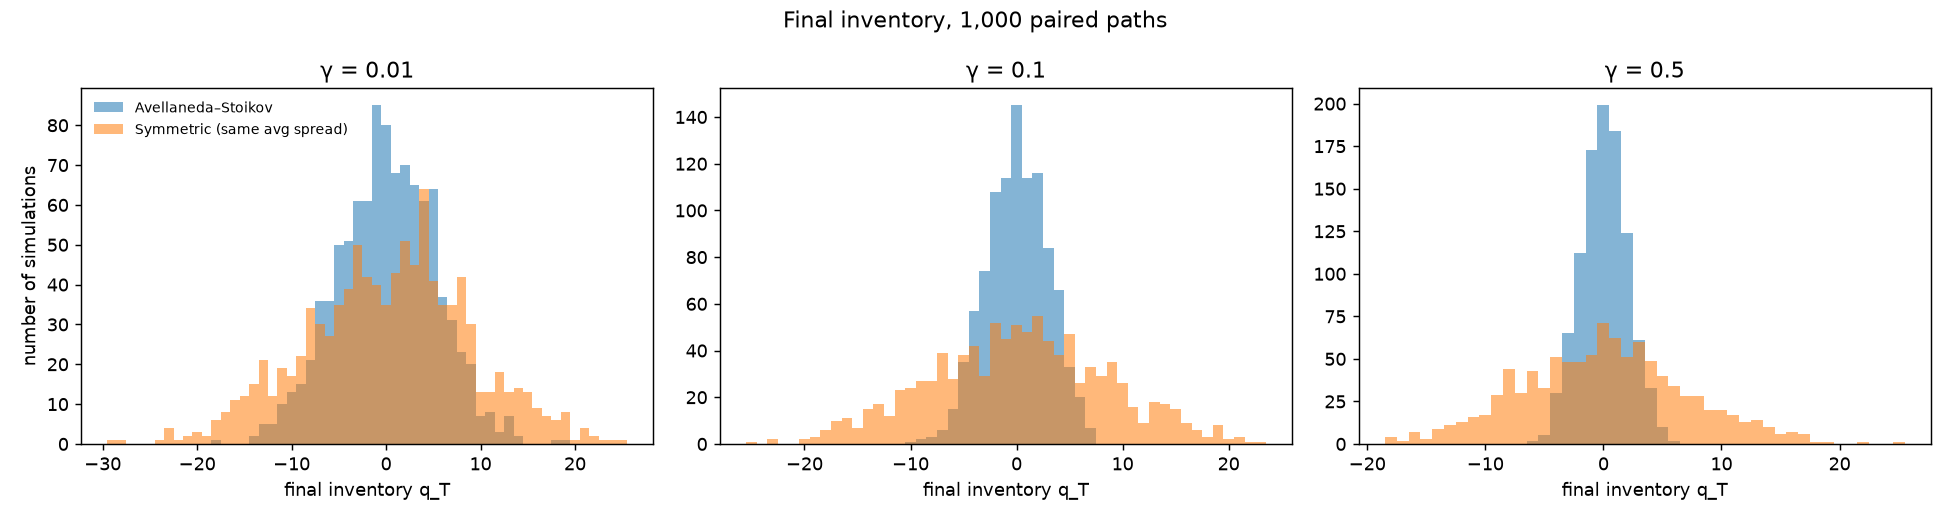
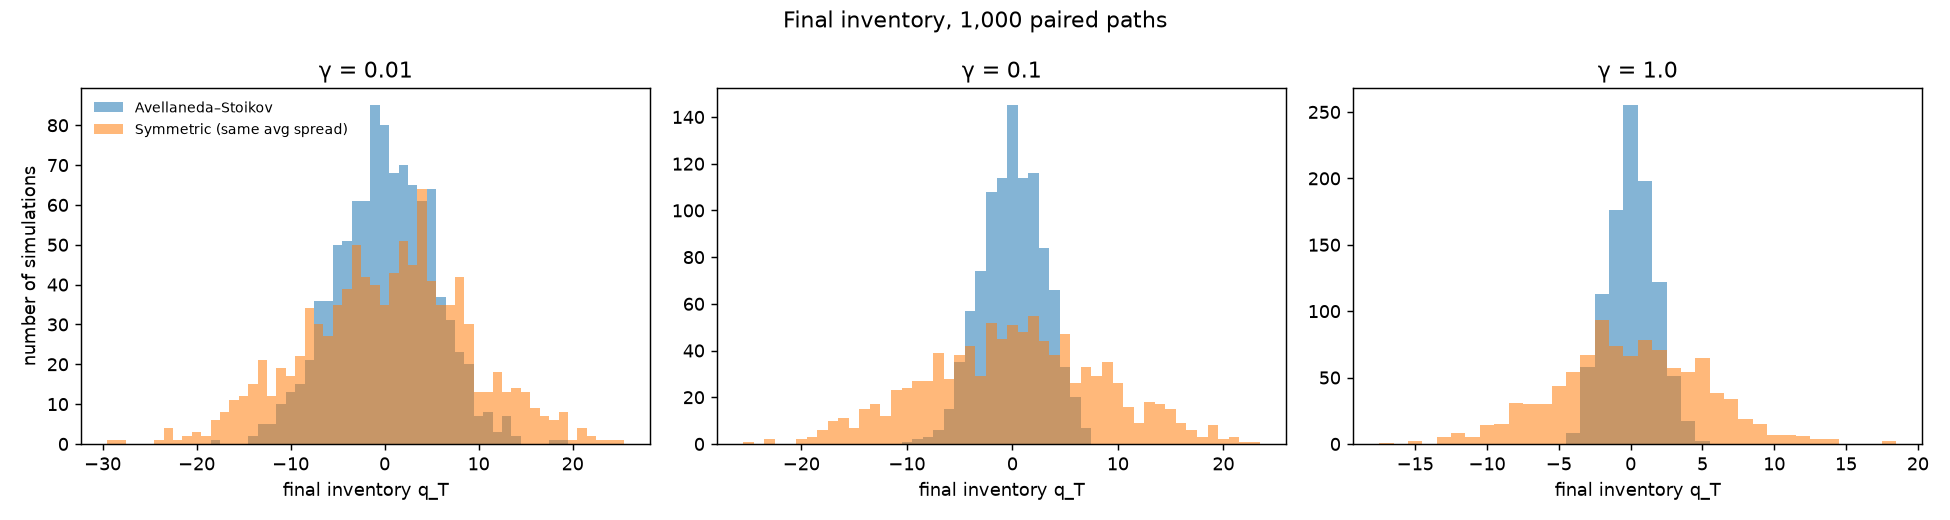
Fix stage 1 benchmark: gamma = 1 replaces 0.5, paper figures checked by owner; rerun replication

diff --git a/scripts/run_replication.py b/scripts/run_replication.py
@@ -1,12 +1,13 @@
 """Replicate Avellaneda & Stoikov (2008), section 4 (numerical simulations).
 
 Setup: S0 = 100, T = 1, sigma = 2, dt = 0.005, A = 140, k = 1.5,
-gamma in {0.01, 0.1, 0.5}, 1,000 paths each (seeds 0..999, shared by both
+gamma in {0.01, 0.1, 1}, 1,000 paths each (seeds 0..999, shared by both
 strategies so the comparison is paired). No fees, no tick size (as in the paper).
 
 Benchmark: a symmetric strategy whose fixed spread equals the A-S spread
-averaged over the run. A second benchmark uses the spread the paper's table
-reports, (2/gamma) ln(1 + gamma/k), to check the benchmark definition.
+averaged over the run. A second benchmark uses only the liquidity term
+(2/gamma) ln(1 + gamma/k), to show how much the benchmark definition matters.
+Fills use the paper's rule P(fill in dt) = lambda * dt (stage 1 only).
 
 Writes to results/stage1/: replication.csv, replication.md, sample_path.png,
 pnl_distributions.png, inventory_distributions.png.
@@ -30,18 +31,21 @@ from mms.strategies.naive import NaiveSymmetric
 
 OUT = Path(__file__).resolve().parents[1] / "results" / "stage1"
 PARAMS = MarketParams(s0=100.0, sigma=2.0, T=1.0, dt=0.005, A=140.0, k=1.5)
-GAMMAS = [0.01, 0.1, 0.5]
+GAMMAS = [0.01, 0.1, 1.0]
 SEEDS = range(1000)
 N_BOOT = 2000
 
-# Paper, Table 1-3 (spread, mean profit, std profit, mean final q, std final q)
+# Avellaneda & Stoikov (2008), Quantitative Finance 8(3), section 4, tables for
+# gamma = 0.1, 0.01 and 1, checked against the paper by the owner (2026-11-26).
+# Values: (average spread, mean profit, std profit, std final q).
+# The paper reports one average spread per gamma, used by both strategies.
 PAPER = {
-    (0.01, "avellaneda_stoikov"): (1.33, 66.78, 8.76, -0.02, 4.70),
-    (0.01, "symmetric"): (1.33, 67.36, 13.40, -0.31, 8.65),
-    (0.1, "avellaneda_stoikov"): (1.29, 62.94, 5.89, 0.10, 2.80),
-    (0.1, "symmetric"): (1.29, 67.21, 13.43, -0.018, 8.66),
-    (0.5, "avellaneda_stoikov"): (1.15, 33.92, 4.72, -0.02, 1.88),
-    (0.5, "symmetric"): (1.15, 66.20, 14.53, 0.25, 9.06),
+    (0.1, "avellaneda_stoikov"): (1.49, 65.0, 6.6, 2.9),
+    (0.1, "symmetric"): (1.49, 68.4, 12.7, 8.4),
+    (0.01, "avellaneda_stoikov"): (1.35, 68.6, 8.7, 5.1),
+    (0.01, "symmetric"): (1.35, 68.8, 12.8, 8.7),
+    (1.0, "avellaneda_stoikov"): (3.02, 31.4, 5.0, 1.7),
+    (1.0, "symmetric"): (3.02, 44.0, 11.0, 5.1),
 }
 
 log = logging.getLogger("replication")
@@ -60,23 +64,23 @@ def main() -> None:
         a_s = AvellanedaStoikov(gamma=g, sigma=PARAMS.sigma, k=PARAMS.k, T=PARAMS.T)
         r_as = simulate(a_s, PARAMS, SEEDS, record_paths=(g == 0.1))
         avg_spread = float(r_as.mean_quoted_spread.mean())
-        paper_spread = (2 / g) * np.log1p(g / PARAMS.k)
+        liq_spread = (2 / g) * np.log1p(g / PARAMS.k)
         r_sym = simulate(NaiveSymmetric(avg_spread), PARAMS, SEEDS)
-        r_sym_paper = simulate(NaiveSymmetric(paper_spread, name="symmetric_paper_spread"), PARAMS, SEEDS)
+        r_sym_liq = simulate(NaiveSymmetric(liq_spread, name="symmetric_liquidity_spread"), PARAMS, SEEDS)
         results[g] = {"avellaneda_stoikov": r_as, "symmetric": r_sym}
 
         for name, res in [("avellaneda_stoikov", r_as), ("symmetric", r_sym),
-                          ("symmetric_paper_spread", r_sym_paper)]:
+                          ("symmetric_liquidity_spread", r_sym_liq)]:
             s = summarise(res, N_BOOT, seed=1).set_index("metric")
             row = {"gamma": g, "strategy": name, "n_paths": len(res.pnl), "n_clipped": res.n_clipped}
             for m in s.index:
                 row[m] = s.loc[m, "estimate"]
                 row[m + "_lo"] = s.loc[m, "ci_low"]
                 row[m + "_hi"] = s.loc[m, "ci_high"]
-            paper = PAPER.get((g, name if name != "symmetric_paper_spread" else "symmetric"))
+            paper = PAPER.get((g, name))
             if paper:
-                row.update(paper_spread_reported=paper[0], paper_mean_pnl=paper[1], paper_std_pnl=paper[2],
-                           paper_mean_q=paper[3], paper_std_q=paper[4])
+                row.update(paper_avg_spread=paper[0], paper_mean_pnl=paper[1], paper_std_pnl=paper[2],
+                           paper_std_q=paper[3])
             rows.append(row)
             md_rows.append(
                 f"| {g} | {name} | {row['mean_quoted_spread']:.3f} | "
@@ -87,7 +91,7 @@ def main() -> None:
                 f"{fmt(row['std_final_q'], row['std_final_q_lo'], row['std_final_q_hi'])} | "
                 f"{row['mean_max_abs_q']:.2f} | {row['fill_rate']:.3f} | {row['avg_spread_captured']:.3f} | "
                 f"{res.n_clipped} | "
-                + (f"{paper[1]} / {paper[2]} / {paper[4]}" if paper else "—") + " |"
+                + (f"{paper[0]} / {paper[1]} / {paper[2]} / {paper[3]}" if paper else "—") + " |"
             )
 
         # Paired differences A-S minus symmetric (same seeds)
@@ -103,10 +107,10 @@ def main() -> None:
         "# Stage 1: Avellaneda–Stoikov replication\n\n"
         f"S0=100, T=1, σ=2, dt=0.005, A=140, k=1.5; {len(SEEDS)} paired paths per γ (seeds 0–999); "
         "no fees, no tick. Cells show estimate [95% bootstrap CI]. "
-        "`symmetric` uses the mean A–S quoted spread; `symmetric_paper_spread` uses (2/γ)ln(1+γ/k), "
-        "the spread printed in the paper's tables. `clipped` = quote-steps with λ·dt > 1.\n\n"
+        "`symmetric` uses the mean A–S quoted spread; `symmetric_liquidity_spread` uses only the liquidity term (2/γ)ln(1+γ/k). "
+        "Paper figures: Avellaneda & Stoikov (2008), section 4 tables. `clipped` = quote-steps with λ·dt > 1.\n\n"
         "| γ | strategy | avg spread | mean P&L | std P&L | mean/std | mean q_T | std q_T | "
-        "mean max|q| | fill rate | spread captured | clipped | paper mean / std P&L / std q |\n"
+        "mean max|q| | fill rate | spread captured | clipped | paper avg spread / mean / std P&L / std q |\n"
         "|---|---|---|---|---|---|---|---|---|---|---|---|---|\n"
     )
     (OUT / "replication.md").write_text(header + "\n".join(md_rows) + "\n", encoding="utf-8")

diff --git a/DECISIONS.md b/DECISIONS.md
@@ -10,18 +10,19 @@ Format: date — decision — one-line reason.
 - 2026-11-26 — Stage 1 replication uses seeds 0–999. — Simple and documented; later stages will use separate, non-overlapping ranges.
 - 2026-11-26 — Price shocks are Gaussian (exact ABM step), not the paper's ±σ√dt binomial steps. — Same mean and variance per step; Gaussian is the textbook ABM and exact for any dt.
 - 2026-11-26 — Fills: at most one unit per side per step, Bernoulli with p = A·exp(−kδ)·dt, δ measured from the mid at quote time; `check_dt` raises if A·dt ≥ 1. — Follows the paper's discretisation; A·dt = 0.7 for the paper setup.
-- 2026-11-26 — When an A–S quote is through the mid (δ < 0) and λ·dt > 1, the probability is clipped to 1 and the number of clipped quote-steps is counted and reported in the results table (33 at γ=0.1, 5,168 at γ=0.5 out of 400,000). — A crossing quote fills for certain; counting it keeps this visible instead of silent.
+- 2026-11-26 — When an A–S quote is through the mid (δ < 0) and λ·dt > 1, the probability is clipped to 1 and the number of clipped quote-steps is counted and reported in the results table (33 at γ=0.1, 10,135 at γ=1 out of 400,000). — A crossing quote fills for certain; counting it keeps this visible instead of silent.
 - 2026-11-26 — Tick rounding: bid rounded down, ask rounded up. — Never quote tighter than the model asks for, and keeps bid < ask.
 - 2026-11-26 — Fee: maker fee charged on notional, cash −= bid·(1+f) on a buy, += ask·(1−f) on a sell. Replication uses f = 0 and no tick (the paper has neither). — Matches how exchanges charge maker fees; costs come in for real data in stage 2.
 - 2026-11-26 — Final P&L = X_T + q_T·S_T (inventory marked at the final mid, no liquidation cost). — The paper's convention; a liquidation penalty can be added in stage 2.
 - 2026-11-26 — Fill rate = fills / (2 × steps), i.e. the share of quote opportunities (per side per step) that filled. Spread captured = mean distance from the mid per fill. — Clear and comparable across strategies.
 - 2026-11-26 — Bootstrap: percentile method, 2,000 resamples; paired differences resample paths jointly. — No normality assumption; the pairing removes shared price noise.
-- 2026-11-26 — Symmetric benchmark spread = mean A–S quoted spread over the run (1.349 / 1.492 / 2.156 for γ = 0.01 / 0.1 / 0.5). A second benchmark uses (2/γ)ln(1+γ/k) (1.329 / 1.291 / 1.151). — The paper's tables print the second number as "spread", which omits the γσ²(T−t) term; reporting both shows the definition barely matters for the symmetric P&L (~68 either way).
-- 2026-11-26 — Paper sanity targets in scripts/run_replication.py were transcribed by Claude from Avellaneda & Stoikov (2008), Tables 1–3, not copied from the PDF in this session. — Owner should check them against the paper.
+- 2026-11-26 — Symmetric benchmark spread = mean A–S quoted spread over the run (1.349 / 1.492 / 3.032 for γ = 0.01 / 0.1 / 1; paper 1.35 / 1.49 / 3.02). A second benchmark uses only the liquidity term (2/γ)ln(1+γ/k) (1.329 / 1.291 / 1.022). — Matches the paper's "average spread" definition; the second shows the definition matters at γ = 1 (symmetric P&L 43.4 vs 66.7).
+- 2026-11-26 — Paper sanity targets in scripts/run_replication.py were first typed from memory and were wrong (they included a γ = 0.5 row). — Superseded in stage 2, see below.
 
-### Replication vs paper (stage 1)
-- γ = 0.01 and 0.1 match the expected pattern and are close to the paper: e.g. γ = 0.1 A–S 64.9 ± 6.9 (paper 62.9 ± 5.9), symmetric 68.3 ± 13.3 (paper 67.2 ± 13.4); std of final inventory 2.9 vs 8.4 (paper 2.8 vs 8.7).
-- γ = 0.5: A–S mean P&L 48.5 vs the paper's 33.9 (std 6.3 vs 4.7; inventory std 2.0 vs 1.9, which matches). Investigated without tuning (scratch run, 1,000 seeds): exact Poisson probability 1−exp(−λdt) → 42.8; never quoting through the mid → 50.5; spread = liquidity term only (what the paper's table prints) → 23.8. None reproduces 33.9 exactly; the paper does not fully specify its discretisation, so the main result keeps the CLAUDE.md model. The qualitative finding (A–S lower mean, much lower P&L and inventory std) holds at every γ.
+### Replication vs paper (stage 1, corrected at the start of stage 2)
+- 2026-11-26 — The owner checked the paper: it reports γ = 0.1, 0.01 and 1, not 0.5. The γ = 0.5 "paper" row (33.9 / 4.7 / 1.9) did not exist; it was a memory error, so the stage 1 investigation of the "γ = 0.5 gap" is void and has been removed. Replication now uses γ ∈ {0.01, 0.1, 1} and the owner's figures. — Compare against what the paper actually reports.
+- 2026-11-26 — Replication keeps the paper's λ·dt fill rule (A·dt = 0.7; quotes through the mid clipped to probability 1, counted: 33 quote-steps at γ = 0.1, 10,135 at γ = 1 out of 400,000). — It is what the paper uses; stage 2 switches to the exact 1 − exp(−λ·dt).
+- Result (1,000 paired paths; ours vs paper, mean / std P&L / std q): γ = 0.1 A–S 64.9 / 6.9 / 2.9 vs 65.0 / 6.6 / 2.9, symmetric 68.3 / 13.3 / 8.4 vs 68.4 / 12.7 / 8.4; γ = 0.01 A–S 68.6 / 9.0 / 5.2 vs 68.6 / 8.7 / 5.1, symmetric 68.7 / 13.6 / 8.7 vs 68.8 / 12.8 / 8.7; γ = 1 A–S 31.4 / 5.0 / 1.7 vs 31.4 / 5.0 / 1.7, symmetric 43.4 / 11.3 / 5.2 vs 44.0 / 11.0 / 5.1 (avg spread 3.03 vs 3.02). Every figure is within about one bootstrap CI width of the paper; γ = 1 matches to the first decimal for A–S.
 - Noted for stage 2: at γ = 0.1 the λ·dt vs 1−exp(−λdt) choice moves A–S mean P&L by ~8 (64.9 → 57.2) because A·dt = 0.7 is not small. With real data, dt must be chosen so that A·dt is well below 1 (e.g. < 0.1).
 
 ### Binance data check (step 3)

diff --git a/results/stage1/replication.md b/results/stage1/replication.md
@@ -1,18 +1,18 @@
 # Stage 1: Avellaneda–Stoikov replication
 
-S0=100, T=1, σ=2, dt=0.005, A=140, k=1.5; 1000 paired paths per γ (seeds 0–999); no fees, no tick. Cells show estimate [95% bootstrap CI]. `symmetric` uses the mean A–S quoted spread; `symmetric_paper_spread` uses (2/γ)ln(1+γ/k), the spread printed in the paper's tables. `clipped` = quote-steps with λ·dt > 1.
+S0=100, T=1, σ=2, dt=0.005, A=140, k=1.5; 1000 paired paths per γ (seeds 0–999); no fees, no tick. Cells show estimate [95% bootstrap CI]. `symmetric` uses the mean A–S quoted spread; `symmetric_liquidity_spread` uses only the liquidity term (2/γ)ln(1+γ/k). Paper figures: Avellaneda & Stoikov (2008), section 4 tables. `clipped` = quote-steps with λ·dt > 1.
 
-| γ | strategy | avg spread | mean P&L | std P&L | mean/std | mean q_T | std q_T | mean max|q| | fill rate | spread captured | clipped | paper mean / std P&L / std q |
+| γ | strategy | avg spread | mean P&L | std P&L | mean/std | mean q_T | std q_T | mean max|q| | fill rate | spread captured | clipped | paper avg spread / mean / std P&L / std q |
 |---|---|---|---|---|---|---|---|---|---|---|---|---|
-| 0.01 | avellaneda_stoikov | 1.349 | 68.61 [68.04, 69.18] | 9.03 [8.64, 9.46] | 7.60 [7.24, 7.96] | 0.09 [-0.23, 0.40] | 5.21 [4.98, 5.43] | 7.12 | 0.255 | 0.669 | 0 | 66.78 / 8.76 / 4.7 |
-| 0.01 | symmetric | 1.349 | 68.73 [67.87, 69.58] | 13.62 [12.73, 14.61] | 5.05 [4.69, 5.42] | 0.21 [-0.33, 0.75] | 8.74 [8.35, 9.11] | 10.41 | 0.254 | 0.675 | 0 | 67.36 / 13.4 / 8.65 |
-| 0.01 | symmetric_paper_spread | 1.329 | 68.77 [67.91, 69.63] | 13.58 [12.74, 14.48] | 5.06 [4.73, 5.42] | 0.23 [-0.29, 0.77] | 8.80 [8.42, 9.17] | 10.50 | 0.258 | 0.664 | 0 | 67.36 / 13.4 / 8.65 |
+| 0.01 | avellaneda_stoikov | 1.349 | 68.61 [68.04, 69.18] | 9.03 [8.64, 9.46] | 7.60 [7.24, 7.96] | 0.09 [-0.23, 0.40] | 5.21 [4.98, 5.43] | 7.12 | 0.255 | 0.669 | 0 | 1.35 / 68.6 / 8.7 / 5.1 |
+| 0.01 | symmetric | 1.349 | 68.73 [67.87, 69.58] | 13.62 [12.73, 14.61] | 5.05 [4.69, 5.42] | 0.21 [-0.33, 0.75] | 8.74 [8.35, 9.11] | 10.41 | 0.254 | 0.675 | 0 | 1.35 / 68.8 / 12.8 / 8.7 |
+| 0.01 | symmetric_liquidity_spread | 1.329 | 68.77 [67.91, 69.63] | 13.58 [12.74, 14.48] | 5.06 [4.73, 5.42] | 0.23 [-0.29, 0.77] | 8.80 [8.42, 9.17] | 10.50 | 0.258 | 0.664 | 0 | — |
 | 0.01 | **A–S − symmetric (paired)** | | -0.12 [-0.63, 0.40] | -4.59 [-5.35, -3.88] | | | | | | | | |
-| 0.1 | avellaneda_stoikov | 1.492 | 64.94 [64.51, 65.38] | 6.91 [6.59, 7.24] | 9.40 [8.96, 9.86] | 0.06 [-0.12, 0.23] | 2.93 [2.81, 3.04] | 3.97 | 0.242 | 0.669 | 33 | 62.94 / 5.89 / 2.8 |
-| 0.1 | symmetric | 1.492 | 68.31 [67.43, 69.16] | 13.33 [12.50, 14.18] | 5.13 [4.80, 5.49] | 0.16 [-0.35, 0.70] | 8.42 [8.07, 8.75] | 10.07 | 0.228 | 0.746 | 0 | 67.21 / 13.43 / 8.66 |
-| 0.1 | symmetric_paper_spread | 1.291 | 68.76 [67.88, 69.63] | 13.68 [12.80, 14.63] | 5.03 [4.69, 5.40] | 0.19 [-0.33, 0.72] | 8.89 [8.49, 9.27] | 10.58 | 0.266 | 0.645 | 0 | 67.21 / 13.43 / 8.66 |
+| 0.1 | avellaneda_stoikov | 1.492 | 64.94 [64.51, 65.38] | 6.91 [6.59, 7.24] | 9.40 [8.96, 9.86] | 0.06 [-0.12, 0.23] | 2.93 [2.81, 3.04] | 3.97 | 0.242 | 0.669 | 33 | 1.49 / 65.0 / 6.6 / 2.9 |
+| 0.1 | symmetric | 1.492 | 68.31 [67.43, 69.16] | 13.33 [12.50, 14.18] | 5.13 [4.80, 5.49] | 0.16 [-0.35, 0.70] | 8.42 [8.07, 8.75] | 10.07 | 0.228 | 0.746 | 0 | 1.49 / 68.4 / 12.7 / 8.4 |
+| 0.1 | symmetric_liquidity_spread | 1.291 | 68.76 [67.88, 69.63] | 13.68 [12.80, 14.63] | 5.03 [4.69, 5.40] | 0.19 [-0.33, 0.72] | 8.89 [8.49, 9.27] | 10.58 | 0.266 | 0.645 | 0 | — |
 | 0.1 | **A–S − symmetric (paired)** | | -3.37 [-4.07, -2.62] | -6.42 [-7.25, -5.62] | | | | | | | | |
-| 0.5 | avellaneda_stoikov | 2.156 | 48.53 [48.14, 48.92] | 6.34 [6.06, 6.60] | 7.65 [7.35, 7.99] | 0.06 [-0.06, 0.18] | 1.99 [1.90, 2.07] | 2.61 | 0.195 | 0.620 | 5168 | 33.92 / 4.72 / 1.88 |
-| 0.5 | symmetric | 2.156 | 59.39 [58.56, 60.15] | 12.79 [12.01, 13.61] | 4.64 [4.35, 4.96] | 0.02 [-0.41, 0.45] | 7.04 [6.74, 7.35] | 8.20 | 0.138 | 1.078 | 0 | 66.2 / 14.53 / 9.06 |
-| 0.5 | symmetric_paper_spread | 1.151 | 68.31 [67.46, 69.18] | 13.69 [12.80, 14.70] | 4.99 [4.63, 5.36] | 0.15 [-0.39, 0.70] | 9.20 [8.80, 9.59] | 10.97 | 0.295 | 0.575 | 0 | 66.2 / 14.53 / 9.06 |
-| 0.5 | **A–S − symmetric (paired)** | | -10.86 [-11.56, -10.16] | -6.45 [-7.23, -5.63] | | | | | | | | |
+| 1.0 | avellaneda_stoikov | 3.032 | 31.37 [31.06, 31.68] | 4.96 [4.74, 5.18] | 6.32 [6.05, 6.61] | 0.07 [-0.04, 0.16] | 1.66 [1.59, 1.72] | 2.13 | 0.140 | 0.560 | 10135 | 3.02 / 31.4 / 5.0 / 1.7 |
+| 1.0 | symmetric | 3.032 | 43.44 [42.70, 44.14] | 11.30 [10.68, 11.90] | 3.85 [3.64, 4.08] | -0.03 [-0.35, 0.31] | 5.18 [4.95, 5.40] | 6.03 | 0.072 | 1.516 | 0 | 3.02 / 44.0 / 11.0 / 5.1 |
+| 1.0 | symmetric_liquidity_spread | 1.022 | 66.74 [65.90, 67.61] | 13.77 [12.95, 14.70] | 4.85 [4.53, 5.17] | 0.04 [-0.54, 0.63] | 9.50 [9.08, 9.91] | 11.37 | 0.325 | 0.511 | 0 | — |
+| 1.0 | **A–S − symmetric (paired)** | | -12.07 [-12.66, -11.42] | -6.33 [-6.90, -5.74] | | | | | | | | |

diff --git a/CLAUDE.md b/CLAUDE.md
@@ -32,7 +32,11 @@ The owner is a first-year maths student building this for quant trading internsh
 - Reservation price: r = S − q·γ·σ²·(T − t)
 - Total spread: δ_a + δ_b = γ·σ²·(T − t) + (2/γ)·ln(1 + γ/k)
 - Quotes: ask = r + spread/2, bid = r − spread/2, rounded to the tick size when a tick size is set.
-- Paper setup for replication: S0 = 100, T = 1, σ = 2, dt = 0.005, A = 140, k = 1.5, γ ∈ {0.01, 0.1, 0.5}, 1,000 simulations. The benchmark is a symmetric strategy using the same average spread. Expected pattern: A–S has a similar or slightly lower mean profit but a much lower standard deviation of profit and of final inventory. For γ = 0.1 the paper reports roughly mean 63 / std 6 for A–S vs mean 67 / std 13 for symmetric. Treat these as sanity targets, not exact values.
+- Paper setup for replication: S0 = 100, T = 1, σ = 2, dt = 0.005, A = 140, k = 1.5, γ ∈ {0.1, 0.01, 1}, 1,000 simulations, fills with probability λ(δ)·dt (the paper's rule; stage 1 only). The benchmark is a symmetric strategy using the same average spread. Paper figures (Avellaneda & Stoikov 2008, Quantitative Finance, section 4), mean profit / std profit / std final q:
+  - γ = 0.1: inventory strategy 65.0 / 6.6 / 2.9; symmetric 68.4 / 12.7 / 8.4 (average spread 1.49)
+  - γ = 0.01: inventory strategy 68.6 / 8.7 / 5.1; symmetric 68.8 / 12.8 / 8.7 (average spread 1.35)
+  - γ = 1: inventory strategy 31.4 / 5.0 / 1.7; symmetric 44.0 / 11.0 / 5.1 (average spread 3.02)
+  Expected pattern: A–S has a similar or lower mean profit but a much lower std of profit and of final inventory. Treat these as sanity targets, not exact values.
 
 ## Layout
 
